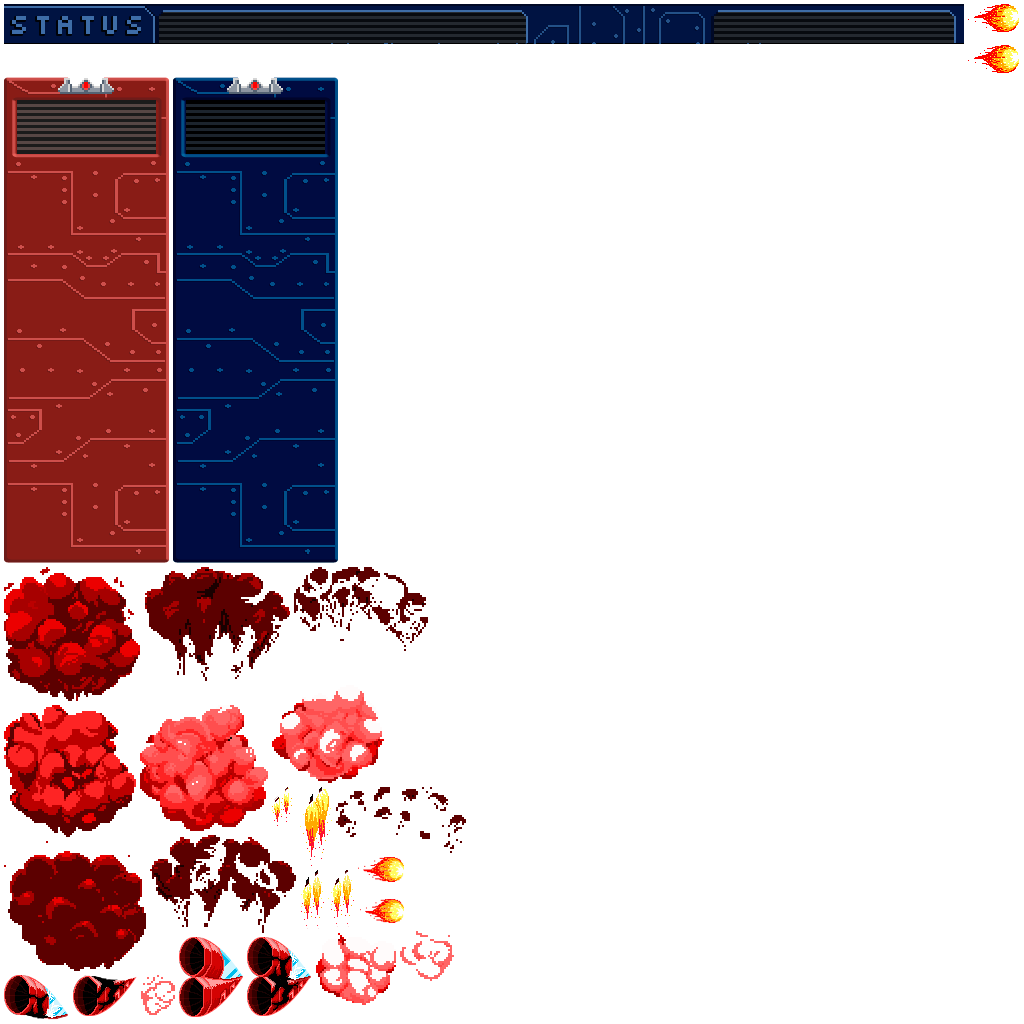
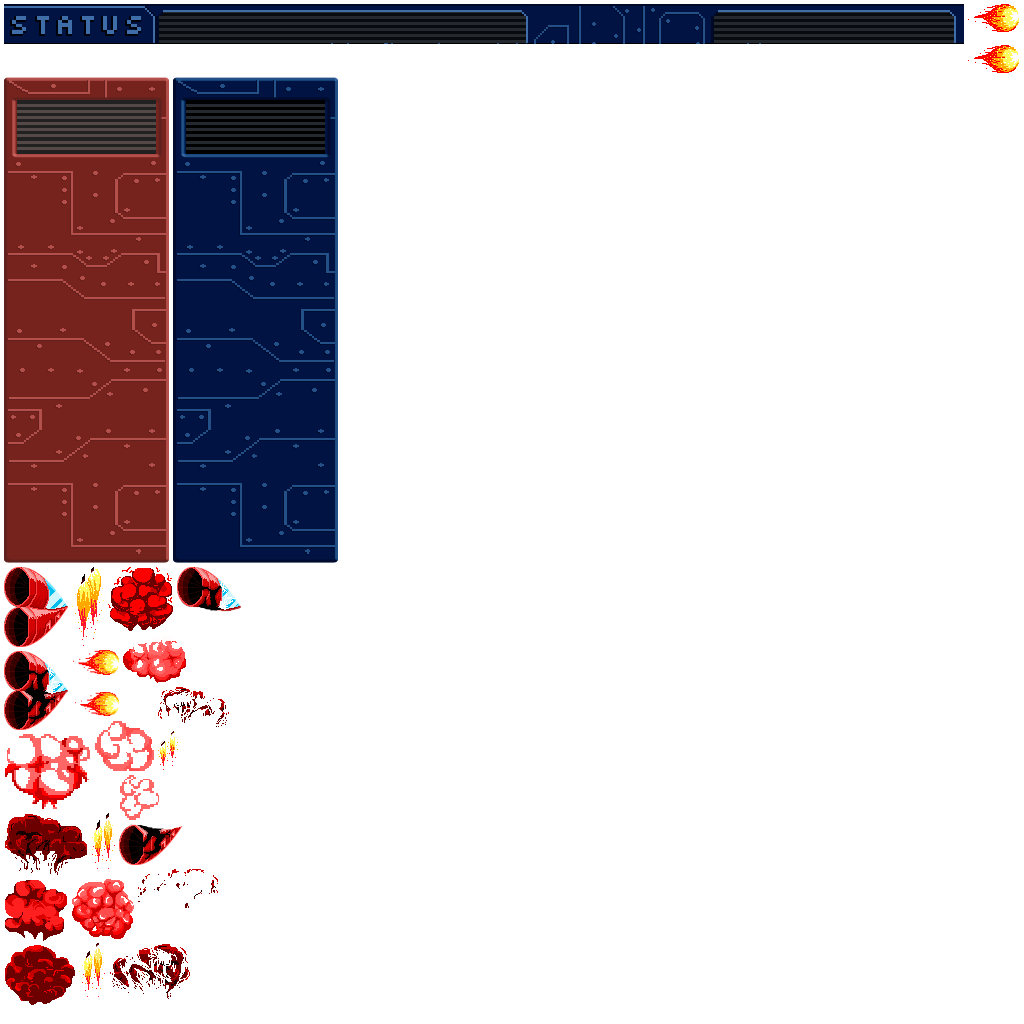
Changed the main game atlas and added the new explosion sprites.

diff --git a/felipepb/relationship/js/Missions.js b/felipepb/relationship/js/Missions.js
@@ -2,12 +2,12 @@ BasicGame.Missions = function () {
 	this.stats = [];
 
 	this._periods = [
-		{ type: BasicGame.Missions.Period.Single, name: 'singleness' },
+		{ type: BasicGame.Missions.Period.Single, name: 'a single\'s life' },
 		{ type: BasicGame.Missions.Period.CasualDate, name: 'casual dates' },
 		{ type: BasicGame.Missions.Period.FixedDate, name: 'fixed dates' },
-		{ type: BasicGame.Missions.Period.SeriousRelationship, name: 'serious relationship' },
+		{ type: BasicGame.Missions.Period.SeriousRelationship, name: 'a serious relationship' },
 		{ type: BasicGame.Missions.Period.Engaged, name: 'engagement' },
-		{ type: BasicGame.Missions.Period.Married, name: 'marriage' },
+		{ type: BasicGame.Missions.Period.Married, name: 'the marriage' },
 		{ type: BasicGame.Missions.Period.RenewedVows, name: 'renewed vows' },
 		{ type: BasicGame.Missions.Period.OldAge, name: 'old age' }
 	];

diff --git a/felipepb/relationship/js/Preloader.js b/felipepb/relationship/js/Preloader.js
@@ -29,7 +29,7 @@ BasicGame.Preloader.prototype = {
         this.load.atlas('textField', 'assets/textfield_349-52-4.png', 'assets/textfield_349-52-4.json');
         this.load.image('mainMenu', 'assets/splash_960-600.png');
         this.load.image('endGame', 'assets/endgame_960-600.png');
-        this.load.atlas('mainGameAtlas', 'assets/maingameatlas_512-1024.png', 'assets/maingameatlas_512-1024.json');
+        this.load.atlas('mainGameAtlas', 'assets/maingameatlas_1024-1024.png', 'assets/maingameatlas_1024-1024.json');
         this.load.atlas('lightningAtlas', 'assets/lightningatlas_128x256.png', 'assets/lightningatlas_128x256.json');
   		this.load.image('backgroundColor', 'assets/backgroundcolor_960-600.png');
         this.load.image('backgroundPhrases', 'assets/backgroundphrases_960-600.png');

diff --git a/felipepb/relationship/js/Player.js b/felipepb/relationship/js/Player.js
@@ -132,7 +132,7 @@ BasicGame.Player.prototype = {
         var animationFrames = [];
 
         for (var i = 0; i <= 13; i++) {
-            animationFrames.push('explosion' + i + '_148-158.png');
+            animationFrames.push('explosion' + i + '_148-153.png');
         }
 
         var anim = this.ship.animations.add('explode', animationFrames, 10, false);
